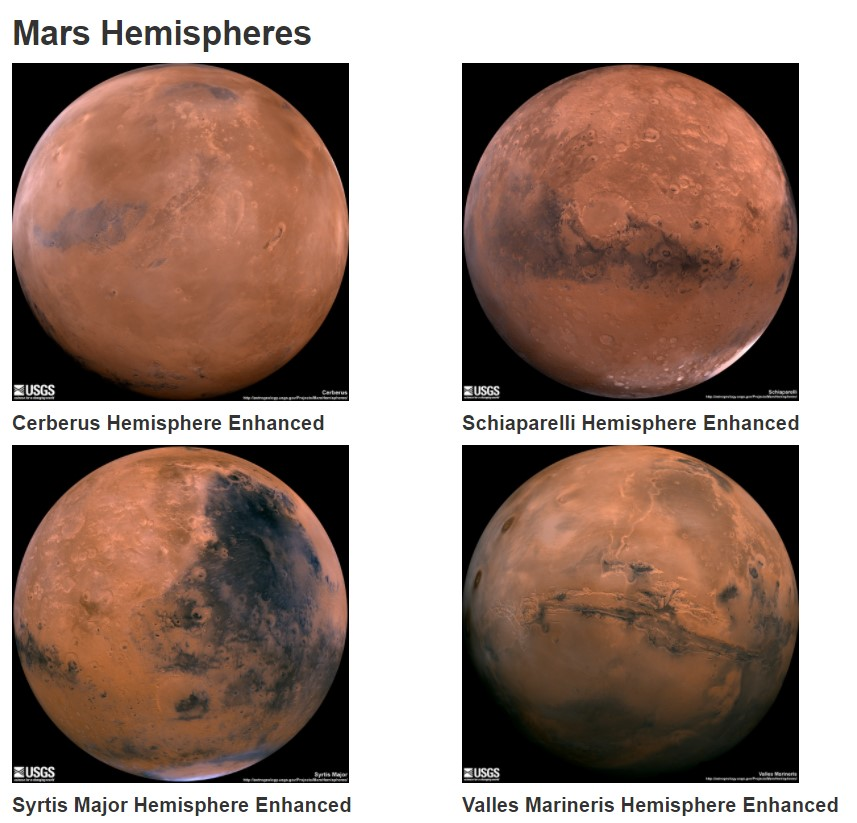
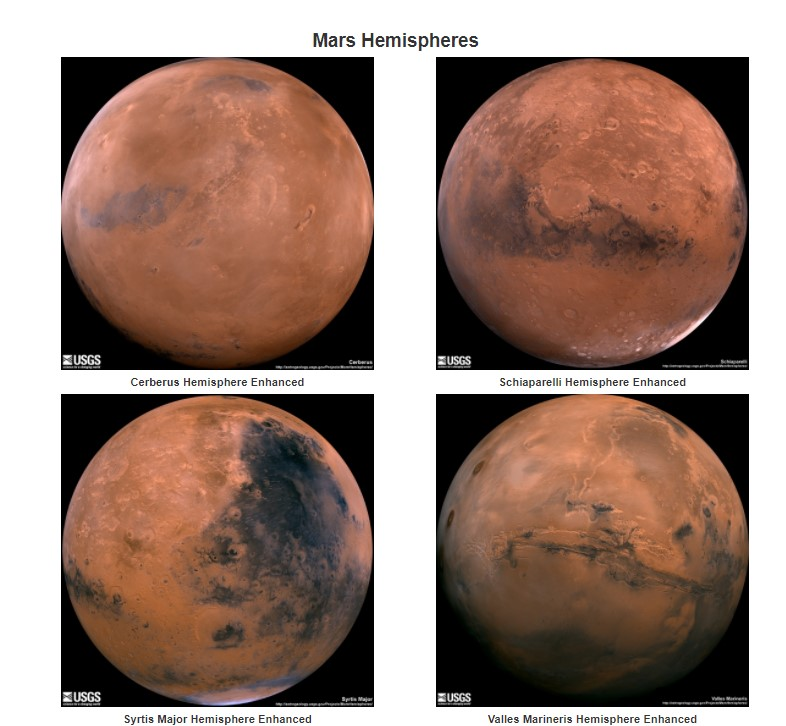
updating index, style, images

diff --git a/Missions_to_Mars/templates/index.html b/Missions_to_Mars/templates/index.html
@@ -19,34 +19,43 @@
     <h2><strong>Latest Mars News</strong></h2>
     <p><b>{{mars.NewsTitle}}</b></p>
     <p>{{mars.NewsPara}}</p>
+
+
     <div class="row">
       <div class="col-md-6">
-
-
-    <h2><strong>Featured Mars Image</strong></h2>
-    <img src="{{mars.FeaturedImg}}"/>
+        <h2><strong>Featured Mars Image</strong></h2>
+        <img src="{{mars.FeaturedImg}}"/>
+      </div>
+    <div class="col-md-6" style="width:500px;height:500px">
+        <h2><strong>Mars Facts</strong></h2>
+        {{mars.MarsFacts|safe}}
     </div>
-    <div class="col-md-6">
-    <h2><strong>Mars Facts</strong></h2>
-    {{mars.MarsFacts|safe}}
-  </div>
-  </div>
 
+  </div>
   
- <div class="center">
-  <h2><strong>Mars Hemispheres</strong></h2>
-  <div class="row row-sm" style="width:800px">
-    
-    {%for hemisphere in mars.Hemispheres%}
-    <div class="col-md-6">
-    <img style="width:300px;height:300px"class="images-fluid float-left img-sml" src="{{hemisphere.image_url}}"/>
-    <h4><strong>{{hemisphere.title}}</strong></h4>
+  </div>
+
+  <div class="container text-center">
+    <h2><strong>Mars Hemispheres</strong></h2>
+    <div class="row row-sm" style="width:1200px">
+      
+      {%for hemisphere in mars.Hemispheres%}
+      <div class="col-md-6">
+      <img style="width:500px;height:500px" class="images-fluid img-sml" src="{{hemisphere.image_url}}"/>
+      <h4><strong>{{hemisphere.title}}</strong></h4>
+      </div>
+      {%endfor%}
     </div>
-    {%endfor%}
   </div>
-</div>
-  </div>
-  </div>
+
+  <script src="https://code.jquery.com/jquery-3.3.1.slim.min.js" integrity="sha384-q8i/X+965DzO0rT7abK41JStQIAqVgRVzpbzo5smXKp4YfRvH+8abtTE1Pi6jizo" crossorigin="anonymous"></script>
+  <script src="https://cdnjs.cloudflare.com/ajax/libs/popper.js/1.14.7/umd/popper.min.js" integrity="sha384-UO2eT0CpHqdSJQ6hJty5KVphtPhzWj9WO1clHTMGa3JDZwrnQq4sF86dIHNDz0W1" crossorigin="anonymous"></script>
+  <script src="https://stackpath.bootstrapcdn.com/bootstrap/4.3.1/js/bootstrap.min.js" integrity="sha384-JjSmVgyd0p3pXB1rRibZUAYoIIy6OrQ6VrjIEaFf/nJGzIxFDsf4x0xIM+B07jRM" crossorigin="anonymous"></script>
+
+</body>
+
+</html>
+
 </body>
 
 </html>

diff --git a/Missions_to_Mars/templates/style.css b/Missions_to_Mars/templates/style.css
@@ -4,6 +4,7 @@
      height: 150px;
   }
 
-  .row-sm {width: 400px;
+  .row-sm {
+    width: 800px;
   }
 }
